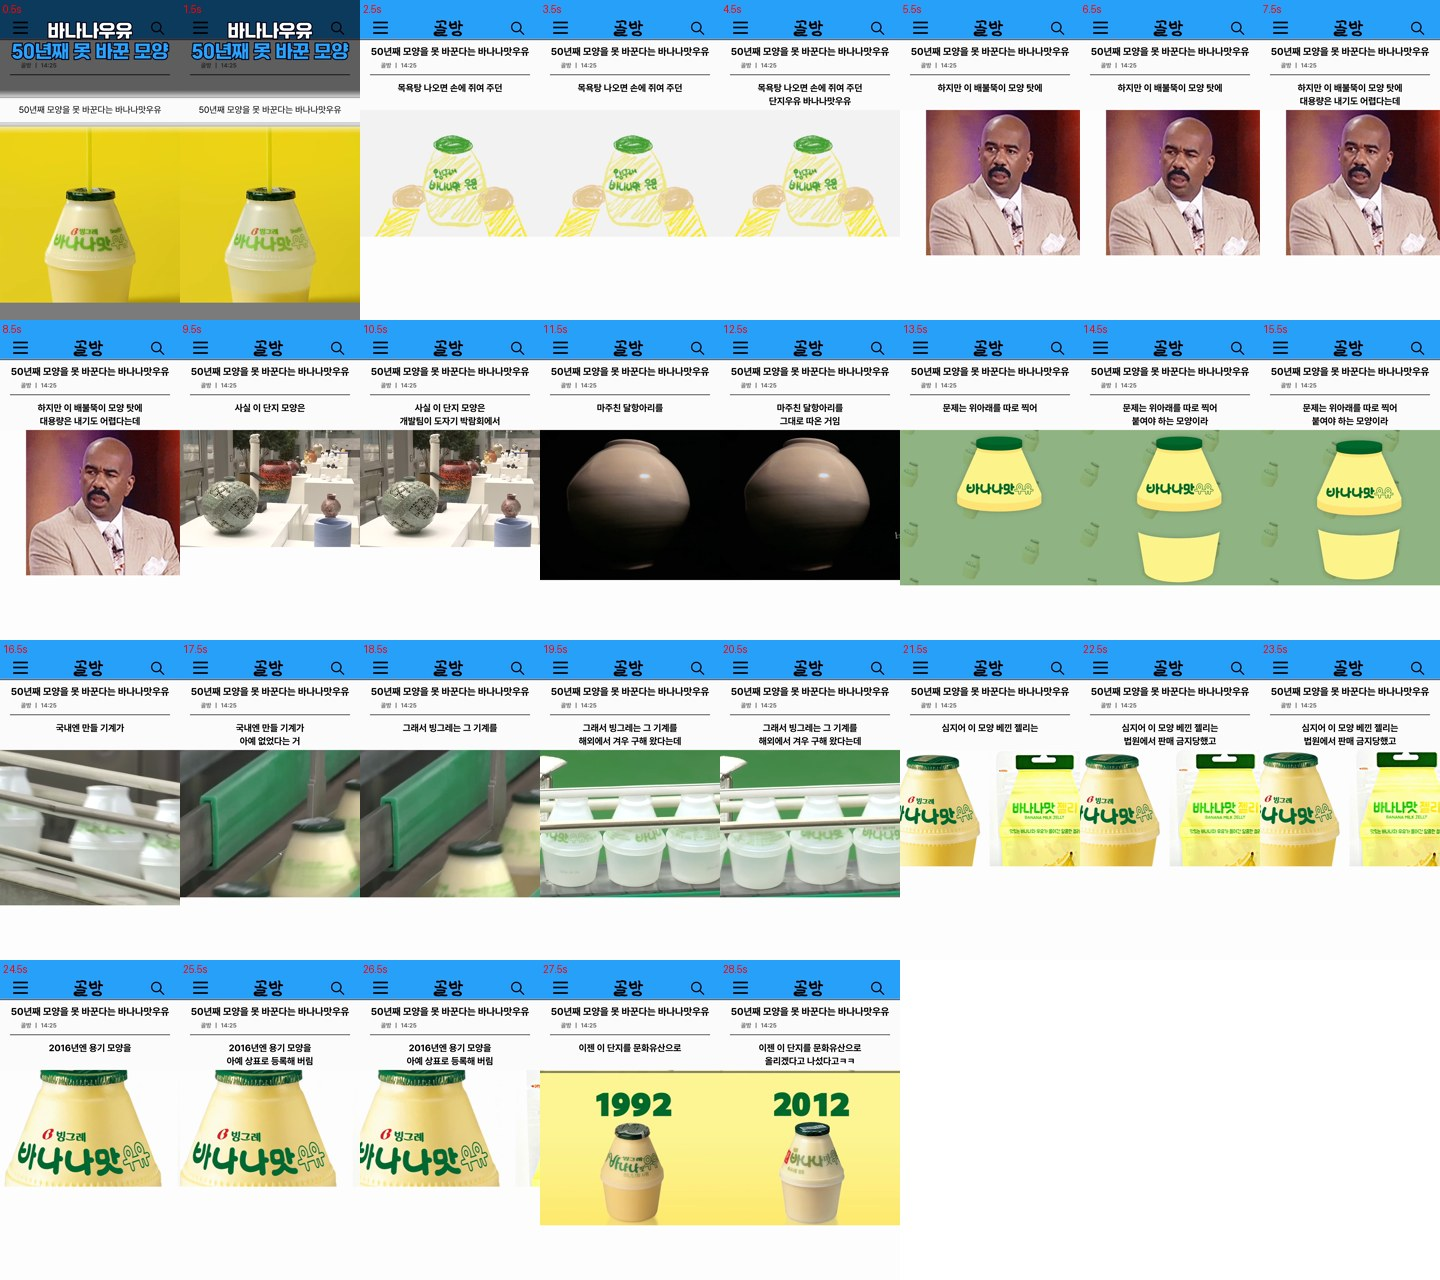
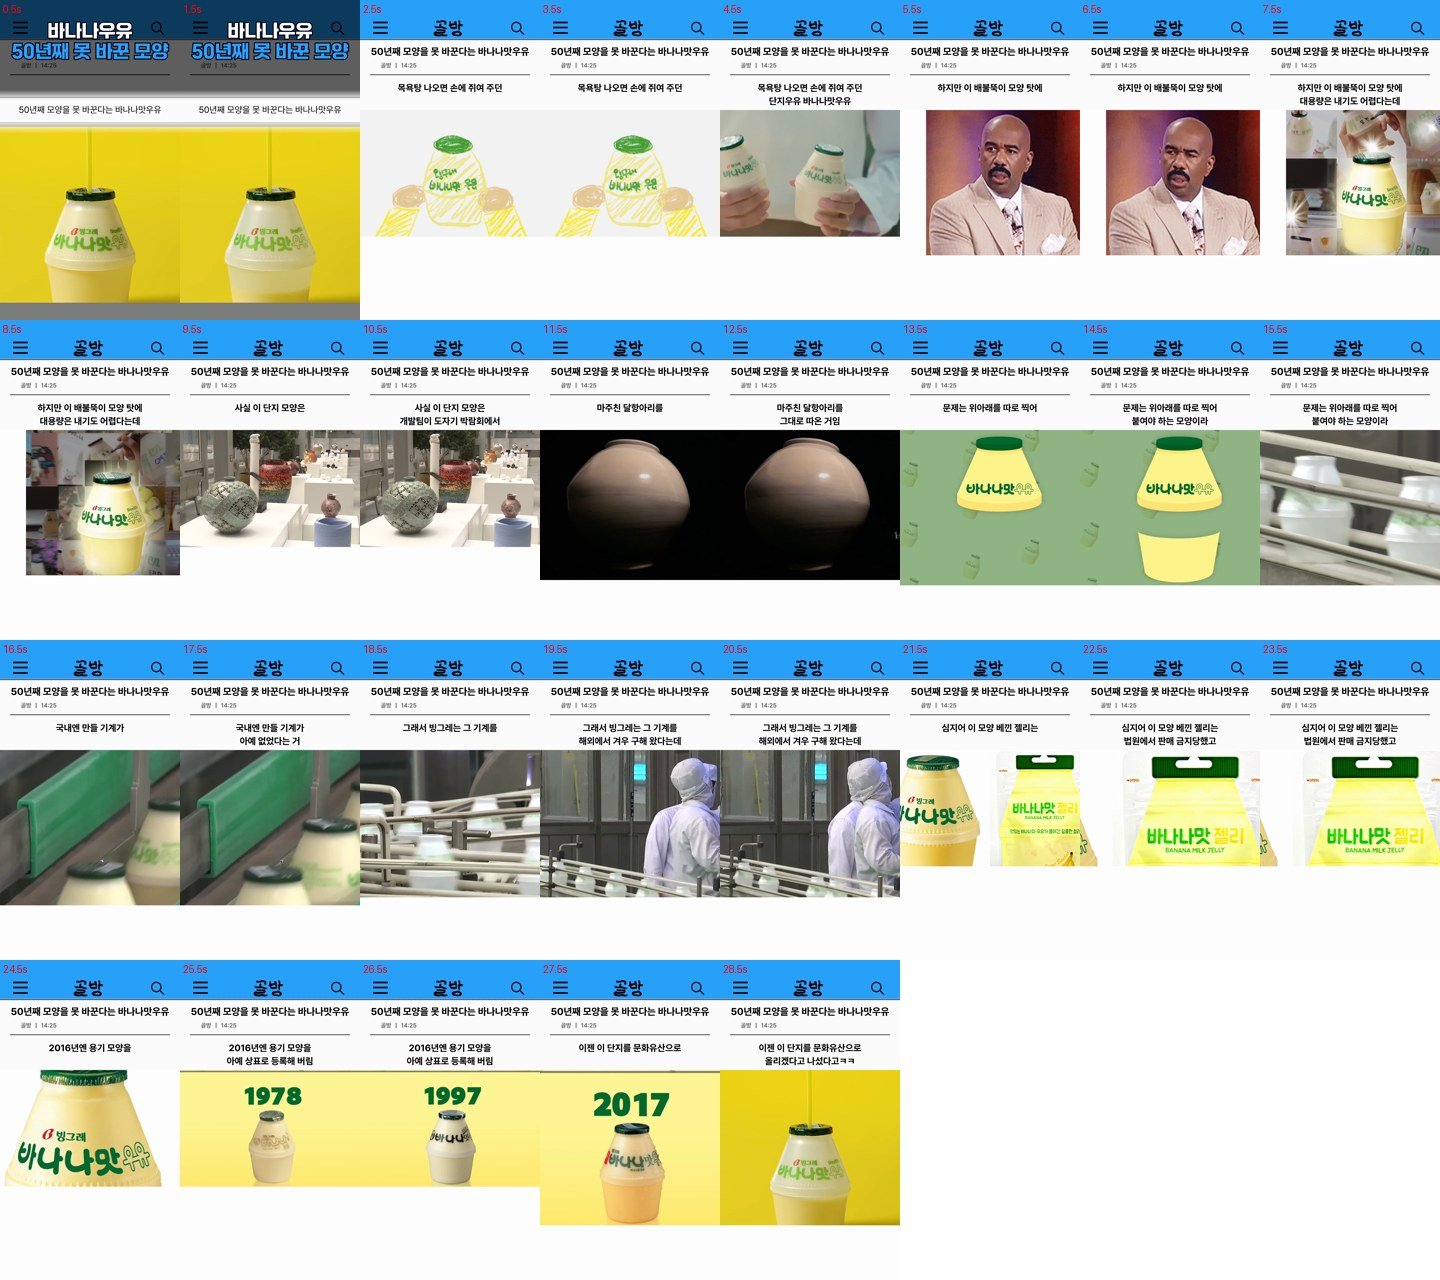
방구석 2편 렌더 2판(조율자 템포 지적): 7개 자막 페이지를 2컷 이음 재료로(build_combos.py, narr_video 미수정) — 실측 샷 18·컷 중앙 1.32초·p90 2.03(원본 15·1.63) · 6번 80초로 같은 그림 연속 피함 · 9번 흰 띠 구간 안 씀 · TTS·대본 그대로 (관제 097)
Claude-Session: https://claude.ai/code/session_01BTrZqzTa3Berb8VK4gs4B4

diff --git a/channel/banggu/칼카피_banana/대조/차이표.md b/channel/banggu/칼카피_banana/대조/차이표.md
@@ -1,7 +1,7 @@
 # 칼카피 대조 차이표
 
 - 원본: `C:/숏템_칼카피/banggu/mp4/ILIiqCJAOSI.mp4` (26.5초)
-- 우리: `C:\숏템_칼카피\banggu\칼카피_banana\render\final.mp4` (29.467초)
+- 우리: `C:\숏템_칼카피\banggu\칼카피_banana\render2\final.mp4` (29.433초)
 - 자: bench_one.measure(layout_mode=`single`) — 두 영상에 같은 함수
 - 규칙 자료(뜯기.json): 원본 `None` · 우리 `None`
 - **판정(① 픽셀 수준만): 미달** (기준 36개 중 안 18개)
@@ -18,7 +18,7 @@
 | 틀 | 자막 자리 | above | above | 같음 | 자막 자리(위/아래/안) 같음 | 안 | `layout._caption` |
 | 틀 | 자막 잉크 극성 | dark | dark | 같음 | 자막 잉크 극성 같음 | 안 | `layout._caption` |
 | 틀 | 자막 띠 [y0,y1) | [502, 631] | [502, 768] | 137 | 자막 띠 y0,y1 차 ≤ 4px (틀 좌표 기준 §6-1) | **밖** | `layout._caption` |
-| 틀 | 창 위 고정 띠 [[y0,y1)…] | [[0, 241], [274, 343], [373, 412], [446, 452], [502, 552], [581, 631]] | [[0, 234], [282, 336], [376, 408], [503, 552], [582, 631]] | 다름 | 참고(설계에 기준 수치 없음) | 참고 | `layout.measure_video(above_bands)` |
+| 틀 | 창 위 고정 띠 [[y0,y1)…] | [[0, 241], [274, 343], [373, 412], [446, 452], [502, 552], [581, 631]] | [[0, 234], [282, 336], [376, 409], [503, 552], [582, 631]] | 다름 | 참고(설계에 기준 수치 없음) | 참고 | `layout.measure_video(above_bands)` |
 | 틀 | 띠 색 | - | - | - | 참고(설계에 기준 수치 없음) | 참고(failed:원본: bench에 띠 색을 재는 자가 없음(layout은 창 밖 배경 RGB만 잰다) / 우리: bench에 띠 색을 재는 자가 없음(layout은 창 밖 배경 RGB만 잰다)) | `-` |
 | 틀 | 창 위 고정 글자 띠 개수 | 6 | 5 | 다름 | 창 위 고정 글자 띠 개수 같음 | **밖** | `bands.measure_video` |
 | 틀 | 제목 블록 아래 끝~창 위 끝(px) | 53 | 30 | 23 | 제목 블록 아래 끝~창 위 끝 간격 차 ≤ 8px | **밖** | `layout.window − bands.ink_bottom` |
@@ -30,33 +30,33 @@
 | 틀 | 창 위 띠2 [274,343) 잉크 비율 | 0.32106 | 0.26791 | -0.053 (16.6%) | 띠 잉크 비율 차 ≤ 20% | 안 | `bands.band_style(layout.ink_mask)` |
 | 틀 | 창 위 띠3 [373,412) 글자 높이(px) | 37 | 32 | -5.0 (13.5%) | 띠 글자 높이 차 ≤ 6% | **밖** | `bands.band_style(captions.glyph_style)` |
 | 틀 | 창 위 띠3 [373,412) 획 두께(px) | 4 | 3 | 1 | 띠 획 두께 차 ≤ 1px | 안 | `bands.band_style(captions.glyph_style)` |
-| 틀 | 창 위 띠3 [373,412) 잉크 비율 | 0.04441 | 0.03391 | -0.01 (23.6%) | 띠 잉크 비율 차 ≤ 20% | **밖** | `bands.band_style(layout.ink_mask)` |
+| 틀 | 창 위 띠3 [373,412) 잉크 비율 | 0.04441 | 0.03308 | -0.011 (25.5%) | 띠 잉크 비율 차 ≤ 20% | **밖** | `bands.band_style(layout.ink_mask)` |
 | 틀 | 창 위 띠4 [446,452) 글자 높이(px) | - | - | - | 띠 글자 높이 차 ≤ 6% | failed:원본: glyph_style 이 이 띠에서 글자를 못 찾음 / 우리: 짝 띠 없음(원본 띠와 가운데가 가까운 띠를 못 찾음) | `bands.band_style(captions.glyph_style)` |
 | 틀 | 창 위 띠4 [446,452) 획 두께(px) | - | - | - | 띠 획 두께 차 ≤ 1px | failed:원본: glyph_style 이 이 띠에서 글자를 못 찾음 / 우리: 짝 띠 없음(원본 띠와 가운데가 가까운 띠를 못 찾음) | `bands.band_style(captions.glyph_style)` |
 | 틀 | 창 위 띠4 [446,452) 잉크 비율 | 0.31706 | - | - | 띠 잉크 비율 차 ≤ 20% | failed:우리: 짝 띠 없음(원본 띠와 가운데가 가까운 띠를 못 찾음) | `bands.band_style(layout.ink_mask)` |
 | 틀 | 창 위 띠5 [502,552) 글자 높이(px) | 51 | 49 | -2.0 (3.9%) | 띠 글자 높이 차 ≤ 6% | 안 | `bands.band_style(captions.glyph_style)` |
 | 틀 | 창 위 띠5 [502,552) 획 두께(px) | 6 | 6 | 0 | 띠 획 두께 차 ≤ 1px | 안 | `bands.band_style(captions.glyph_style)` |
-| 틀 | 창 위 띠5 [502,552) 잉크 비율 | 0.13685 | 0.15344 | 0.017 (12.1%) | 띠 잉크 비율 차 ≤ 20% | 안 | `bands.band_style(layout.ink_mask)` |
+| 틀 | 창 위 띠5 [502,552) 잉크 비율 | 0.13685 | 0.15341 | 0.017 (12.1%) | 띠 잉크 비율 차 ≤ 20% | 안 | `bands.band_style(layout.ink_mask)` |
 | 틀 | 창 위 띠6 [581,631) 글자 높이(px) | 51 | 49 | -2.0 (3.9%) | 띠 글자 높이 차 ≤ 6% | 안 | `bands.band_style(captions.glyph_style)` |
 | 틀 | 창 위 띠6 [581,631) 획 두께(px) | 6 | 6 | 0 | 띠 획 두께 차 ≤ 1px | 안 | `bands.band_style(captions.glyph_style)` |
 | 틀 | 창 위 띠6 [581,631) 잉크 비율 | 0.10077 | 0 | -0.101 (100.0%) | 띠 잉크 비율 차 ≤ 20% | **밖** | `bands.band_style(layout.ink_mask)` |
 | 자막 | 첫 줄 y 중앙(px) | 502 | 503 | 1.0px (0.1% of H1920) | 첫 줄 y 중앙 차 ≤ 화면 높이의 6% | 안 | `captions.caption_lines` |
 | 자막 | 줄 수 중앙 | 1.5 | 2 | 다름 | 줄 수(중앙) 같음 | **밖** | `captions.caption_lines` |
-| 자막 | 줄 폭 중앙(px) | 423 | 595 | 172.0 (40.7%) | 줄 폭 중앙 차 ≤ 6% | **밖** | `captions.caption_lines` |
+| 자막 | 줄 폭 중앙(px) | 423 | 569 | 146.0 (34.5%) | 줄 폭 중앙 차 ≤ 6% | **밖** | `captions.caption_lines` |
 | 자막 | 첫 줄 높이 중앙(px) | 51 | 49 | -2.0 (3.9%) | 첫 줄 높이 중앙 차 ≤ 6% | 안 | `captions.glyph_style` |
 | 자막 | 획 두께 중앙(px) | 6 | 6 | 0 | 획 두께 중앙 차 ≤ 1px | 안 | `captions.glyph_style` |
 | 자막 | 외곽선 있음(다수) | 없음 | 없음 | 같음 | 외곽선 유무(다수) 같음 — bench는 굵기 px를 안 재고 유무만 잰다 | 안 | `captions.glyph_style` |
 | 자막 | 그림자 있음(다수) | 없음 | 없음 | 같음 | 참고(설계에 기준 수치 없음) | 참고 | `captions.glyph_style` |
 | 자막 | 등장효과(최빈) | 없음 | 없음 | 같음 | 등장효과 종류(최빈) 같음 | 안 | `captions.caption_anim` |
-| 자막 | 자막당 초 중앙 | 1.05 | 1.5 | 0.45 (42.9%) | 자막당 초 중앙 차 ≤ 15% | **밖** | `captions.caption_track(흔들림 구간 제외)` |
-| 자막 | 자막 개수 | 20 | 11 | -9 | 참고(설계에 기준 수치 없음) | 참고 | `captions.caption_track(흔들림 구간 제외)` |
-| 컷 | 컷 길이 중앙(초) | 1.633 | 2.117 | 0.484 (29.6%) | 컷 길이 중앙 차 ≤ 15% | **밖** | `cuts.shot_lengths` |
-| 컷 | 컷 길이 p90(초) | 2.8 | 3.614 | 0.814 (29.1%) | 컷 길이 p90 차 ≤ 15% | **밖** | `cuts.shot_lengths` |
+| 자막 | 자막당 초 중앙 | 1.05 | 1.3 | 0.25 (23.8%) | 자막당 초 중앙 차 ≤ 15% | **밖** | `captions.caption_track(흔들림 구간 제외)` |
+| 자막 | 자막 개수 | 20 | 15 | -5 | 참고(설계에 기준 수치 없음) | 참고 | `captions.caption_track(흔들림 구간 제외)` |
+| 컷 | 컷 길이 중앙(초) | 1.633 | 1.316 | -0.317 (19.4%) | 컷 길이 중앙 차 ≤ 15% | **밖** | `cuts.shot_lengths` |
+| 컷 | 컷 길이 p90(초) | 2.8 | 2.03 | -0.77 (27.5%) | 컷 길이 p90 차 ≤ 15% | **밖** | `cuts.shot_lengths` |
 | 컷 | 첫 컷 시각(초) | 1.633 | 2.333 | 0.7 | 참고(설계에 기준 수치 없음) | 참고 | `cuts.shot_lengths` |
-| 컷 | 자막=컷 일치율(%) | 85.7 | 69.2 | -16.5 | 참고(설계에 기준 수치 없음) | 참고 | `cuts.cut_eq_sub` |
-| 컷 | 샷 수 | 15 | 14 | -1 | 참고(설계에 기준 수치 없음) | 참고 | `cuts.scene_detect+merge_close+cut_verify` |
+| 컷 | 자막=컷 일치율(%) | 85.7 | 76.5 | -9.2 | 참고(설계에 기준 수치 없음) | 참고 | `cuts.cut_eq_sub` |
+| 컷 | 샷 수 | 15 | 18 | 3 | 참고(설계에 기준 수치 없음) | 참고 | `cuts.scene_detect+merge_close+cut_verify` |
 | 소리 | True Peak(dBTP) | 0.2 | -0.8 | -1 | 참고(설계에 기준 수치 없음) | 참고 | `audio.ebur128` |
-| 길이 | 길이(초, 프레임÷fps) | 26.5 | 29.467 | 2.967 (11.2%) | 길이 차 ≤ 15% | 안 | `probe.info` |
+| 길이 | 길이(초, 프레임÷fps) | 26.5 | 29.433 | 2.933 (11.1%) | 길이 차 ≤ 15% | 안 | `probe.info` |
 
 ## ② 규칙 수준 (같은 파일인지가 아니라 규칙만 — 판정 제외, 표에만)
 
@@ -74,4 +74,4 @@
 | 목소리 | 화자 수 | - | - | - | 목소리 역할(화자) 수 같음 | failed:원본: 미측정(--rules-json 없음) / 우리: 미측정(--rules-json 없음) | `뜯기.json audio.composition.speakers` |
 | 목소리 | 말속도(글자/초) | - | - | - | 말속도(글자/초) 차 ≤ 10% | failed:원본: 미측정(받아쓰기 --asr-orig/--asr-ours 없음) / 우리: 미측정(받아쓰기 --asr-orig/--asr-ours 없음) | `compare.asr_cps(speechmatics 단어 시각)` |
 
-나란히 그림: `C:\숏템_칼카피\banggu\칼카피_banana\render\대조\side_by_side.jpg` (위=원본·아래=우리, 같은 상대 시각 8지점, 초록=잰 영상 창·빨강=잰 자막 띠)
+나란히 그림: `C:\숏템_칼카피\banggu\칼카피_banana\render2\대조\side_by_side.jpg` (위=원본·아래=우리, 같은 상대 시각 8지점, 초록=잰 영상 창·빨강=잰 자막 띠)

diff --git a/channel/banggu/칼카피_banana/대조/규칙표.md b/channel/banggu/칼카피_banana/대조/규칙표.md
@@ -14,7 +14,7 @@
 | 자막 상태 수(누적 단계) | 20 | 20 |
 | 자막당 초 | 1.24 | 1.36 |
 | 훅 카드 길이(초) | 1.633 | 2.36 |
-| 재료 시간 비율 | 남의영상재편집 1.0(1판 판독) · 짤 1개 6.0~8.4초 | {'남의영상재편집': 0.89, '짤': 0.11} |
+| 재료 시간 비율 | 남의영상재편집 1.0(1판 판독) · 짤 1개 6.0~8.4초 | {'남의영상재편집': 0.28, '남의영상재편집(2컷 이음)': 0.6, '짤+남의영상재편집(2컷 이음)': 0.11} |
 | 효과음(발) | 4 (받아쓰기 귀) / 솟음 [[0.12, 0.18], [4.3, 0.08], [15.84, 0.06], [26.32, 0.06]] | [0.0, 2.36, 8.73, 17.54] |
 
 - 나레: 타입캐스트 필재 tempo 1.25 · 파일 narr_tight.mp3 · 길이 29.52초 · 말 구간 16개
